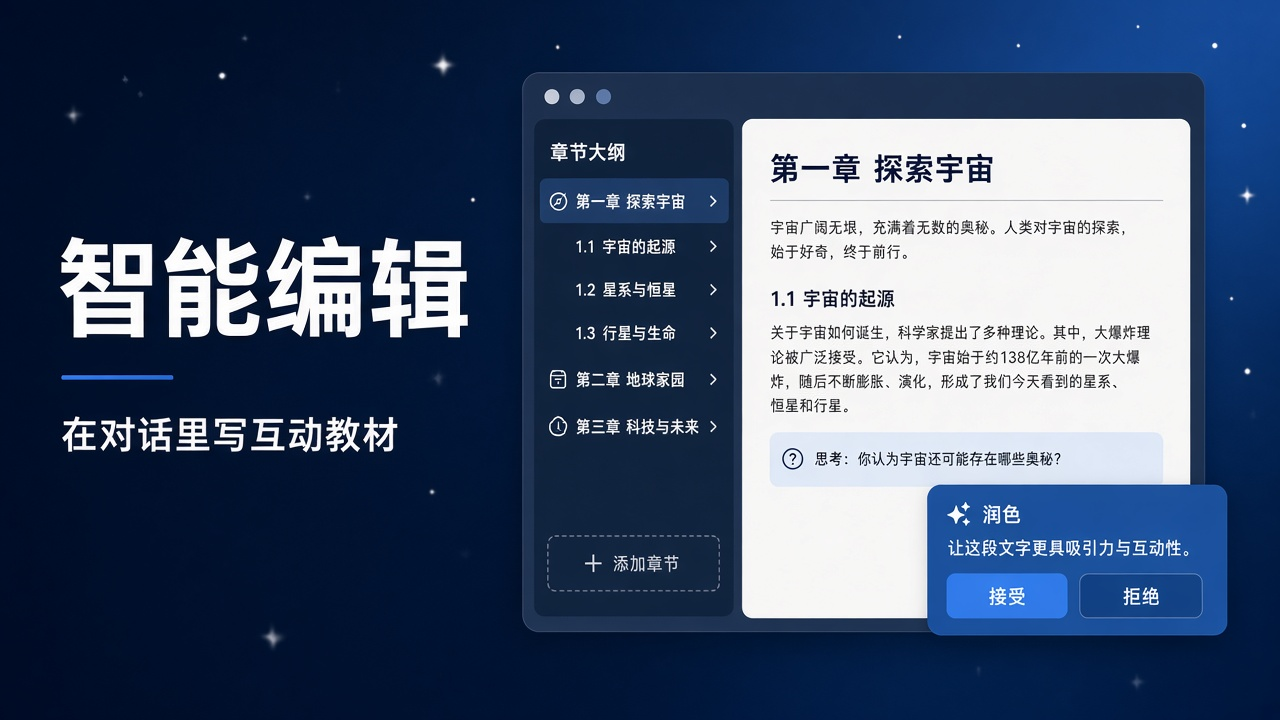
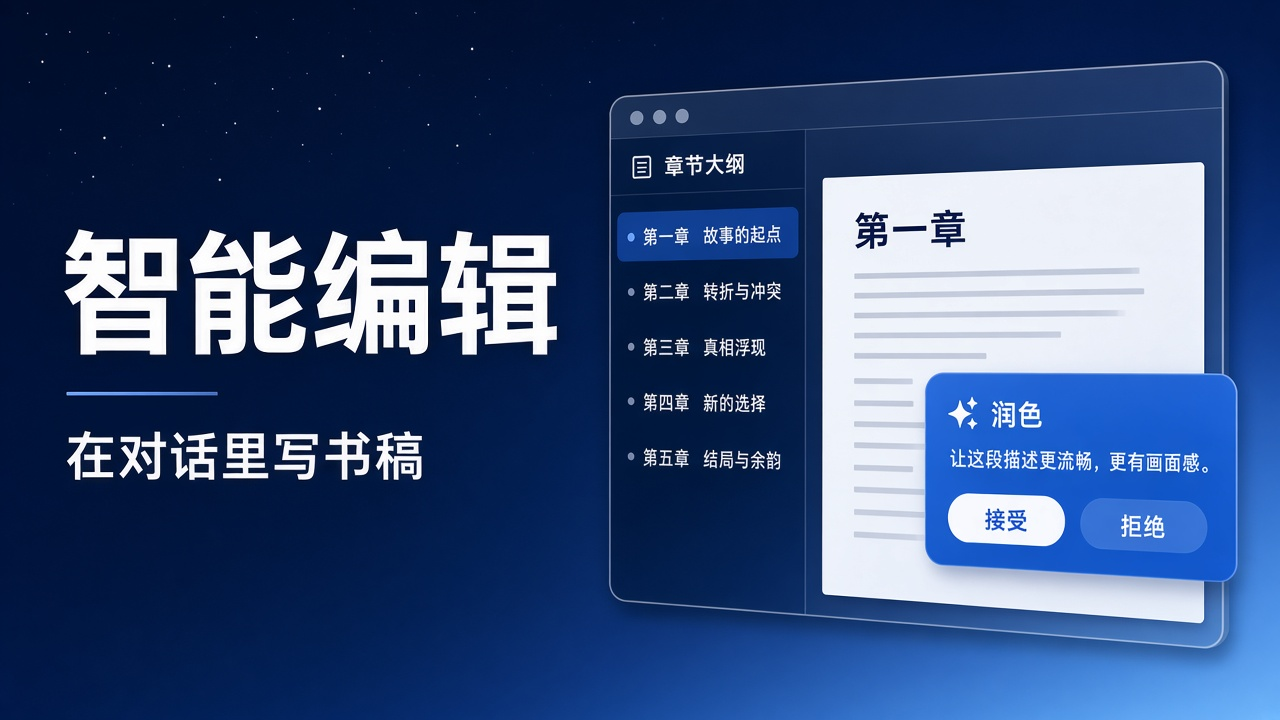
Describe Smart Edit as a general book editor, not only textbooks.

diff --git a/packages/client/src/client/locales.ts b/packages/client/src/client/locales.ts
@@ -14,14 +14,14 @@ export const NS = 'smart-edit'
 /** Chinese copy. */
 const zh = {
   'panel': '智能编辑',
-  'panelDescription': '编辑教材章节的 Tiptap 文档',
+  'panelDescription': '编辑章节的 Tiptap 文档',
   'book': '书库',
   'refresh': '刷新',
   'refreshTitle': '重新读取书库',
   'chapters': '章节',
   'noBooks': '书库为空',
-  'noBooksHint': '请先在书库中创建一本教材，然后点「刷新」。',
-  'pickBook': '请选择一本教材',
+  'noBooksHint': '请先在书库中创建一本书，然后点「刷新」。',
+  'pickBook': '请选择一本书',
   'noChapter': '未选择章节',
   'noChapterHint': '从左侧章节列表选择一个页面开始编辑。',
   'loading': '加载中…',
@@ -86,7 +86,7 @@ const zh = {
   'untitledChapterGroup': '未命名章',
   'untitledPage': '未命名页',
   'newBook': '新建书',
-  'untitledBook': '未命名教材',
+  'untitledBook': '未命名书',
   'newBookPrompt': '书名',
   'renameBook': '重命名书',
   'deleteBook': '删除书',
@@ -96,7 +96,7 @@ const zh = {
   'exportFeb': '导出 .feb',
   'febImportUpdateConfirm': '检测到当前已选书籍：是否以「更新」模式导入（覆盖该书章节与媒体）？取消则导入为新书。',
   'chapterDuplicate': '复制章节',
-  'libraryTitle': '互动教材书库',
+  'libraryTitle': '书库',
   'librarySubtitle': '选择一本书进入章节编辑',
   'librarySearch': '搜索书名…',
   'libraryOpen': '打开编辑',
@@ -106,7 +106,7 @@ const zh = {
 /** English copy. */
 const en = {
   'panel': 'Smart edit',
-  'panelDescription': "Edit a textbook chapter's Tiptap document",
+  'panelDescription': 'Edit a chapter as a Tiptap document',
   'book': 'Book',
   'refresh': 'Refresh',
   'refreshTitle': 'Reload the library',

diff --git a/packages/library/src/tools.ts b/packages/library/src/tools.ts
@@ -26,15 +26,15 @@ export function registerTextbookTools(ctx: Context, lib: TextbookLibrary) {
     ctx.tools.register(defineJsonTool({ name, description, parameters, execute }))
   }
 
-  tool(`${P}list_books`, '列出智能编辑书库中的互动书', { query: { type: 'string' } }, (args) =>
+  tool(`${P}list_books`, '列出智能编辑书库中的书', { query: { type: 'string' } }, (args) =>
     lib.listBooks(str(args.query)),
   )
 
-  tool(`${P}get_book`, '获取互动书及章节列表', { id: { type: 'string', required: true } }, (args) =>
+  tool(`${P}get_book`, '获取书及章节列表', { id: { type: 'string', required: true } }, (args) =>
     lib.getBook(str(args.id)),
   )
 
-  tool(`${P}create_book`, '新建互动书', { title: { type: 'string' } }, (args) =>
+  tool(`${P}create_book`, '新建书', { title: { type: 'string' } }, (args) =>
     lib.createBook(str(args.title, '未命名')),
   )
 
@@ -53,7 +53,7 @@ export function registerTextbookTools(ctx: Context, lib: TextbookLibrary) {
       }),
   )
 
-  tool(`${P}delete_book`, '删除互动书', { id: { type: 'string', required: true } }, (args) =>
+  tool(`${P}delete_book`, '删除书', { id: { type: 'string', required: true } }, (args) =>
     lib.deleteBook(str(args.id)),
   )
 

diff --git a/packages/library/src/routes.ts b/packages/library/src/routes.ts
@@ -13,7 +13,7 @@ const QUICK_EDIT_INSTRUCTIONS: Record<QuickEditMode, string> = {
 
 /** The writing-assistant system prompt of a quick edit. */
 const QUICK_EDIT_SYSTEM = [
-  '你是 DeepSeek Harness 里的教材写作助手，正在协助作者修改互动教材的一段正文。',
+  '你是 DeepSeek Harness 里的写作助手，正在协助作者修改一段正文。',
   '规则：',
   '1. 只输出修改后的正文本身，不要解释、不要加引号、不要输出 Markdown 标题或列表。',
   '2. 保持与原文相同的语言（中文原文就输出中文）。',
@@ -143,7 +143,7 @@ async function generateQuickEdit(
 
 /** The system prompt of a whole-section writing request. */
 const WRITE_SYSTEM = [
-  '你是 DeepSeek Harness 里的互动教材写作助手，正在替作者写一节正文。',
+  '你是 DeepSeek Harness 里的写作助手，正在替作者写一节正文。',
   '输出要求：',
   '1. 只输出一个 Tiptap 文档 JSON 对象：{"type":"doc","content":[...]}。不要输出 Markdown 代码块、不要解释。',
   '2. 正文用 paragraph / heading / bulletList 等节点；数学公式写成 $...$。',

diff --git a/packages/client/src/client/SmartEditPanel.tsx b/packages/client/src/client/SmartEditPanel.tsx
@@ -500,7 +500,7 @@ export function SmartEditPanel({ t }: SmartEditPanelProps): ReactNode {
           ? '续写本节：读完现有正文后接着写，保持语气、术语和结构一致，只提交新增部分的完整章节 doc。'
           : '补写本节：按标题和大纲把这一节写完整，保留已有的互动模块块。'
       const prompt = [
-        '你是这本互动教材的写作助手（Skill: smart-edit）。',
+        '你是这本书的写作助手（Skill: smart-edit）。',
         `书：《${context.book.title}》`,
         kind === 'book' ? '' : `当前章：${chapter?.title ?? ''}（rev ${chapter?.rev ?? 0}）`,
         '',

diff --git a/packages/library/src/textbook-library.ts b/packages/library/src/textbook-library.ts
@@ -700,7 +700,7 @@ export class TextbookLibrary {
         ? (this.db.prepare('SELECT id FROM book WHERE id = ?').get(imp.bookMeta.id) as { id: string } | undefined)
         : undefined
     if (mode === 'update' && targetBookId && !existing) {
-      throw Object.assign(new Error('目标教材不存在'), { code: 'NOT_FOUND' })
+      throw Object.assign(new Error('目标书不存在'), { code: 'NOT_FOUND' })
     }
     let bookId: string
     const t = now()

diff --git a/packages/bundle/README.md b/packages/bundle/README.md
@@ -1,10 +1,10 @@
 # @aiwork/dsh-smart-edit
 
-DSH bundle for the Smart Edit interactive-book workshop. One package carries:
+DSH bundle for Smart Edit. One package carries a library, chapter editing, and agent tools:
 
 | Half | Output | What it is |
 |----|----|----|
-| Host | `dist/index.js` | SQLite (`node:sqlite`) textbook library, the `textbook__*` agent tools, and the `/api/textbook/*` routes |
+| Host | `dist/index.js` | SQLite (`node:sqlite`) book library, the `textbook__*` agent tools, and the `/api/textbook/*` routes |
 | Client | `dist/client.js` | A `window.__ModuleLoader__` factory: the 「智能编辑」sidebar panel (Tiptap rich text + JSON tabs), calling the host over HTTP |
 | Skill | `skill/SKILL.md` | Served by a second skill provider inserted by the bundle patch |
 

diff --git a/packages/bundle/skill/SKILL.md b/packages/bundle/skill/SKILL.md
@@ -1,9 +1,9 @@
 ---
 name: smart-edit
-description: 在 DSH 内编辑互动教材书库：用 textbook__* 工具读写书、篇章树和 Tiptap 正文，插入/更新互动模块块，导入导出 .feb v2 与 FutureEditor 交换；与 FutureEditor 完全隔离。
+description: 在 DSH 内编辑书库：用 textbook__* 工具读写书、篇章树和 Tiptap 正文，插入/更新互动模块块，导入导出 .feb v2 与 FutureEditor 交换；与 FutureEditor 完全隔离。
 ---
 
-# 智能编辑（DSH 教材工坊）
+# 智能编辑
 
 在 DeepSeek Harness 内读写本 profile 书库。与 FutureEditor **完全隔离**；交接请用 `textbook__export_feb` / FutureEditor「另存为 .feb」，或面板「导出 .feb」。
 

diff --git a/packages/bundle/README.zh.md b/packages/bundle/README.zh.md
@@ -1,6 +1,6 @@
 # @aiwork/dsh-smart-edit
 
-DSH 组合包：智能编辑（互动教材工坊）。一个包装齐三部分：
+DSH 组合包：智能编辑。一个包装齐书库、章节编辑和 Agent 工具：
 
 | 部分 | 产物 | 说明 |
 |----|----|----|
